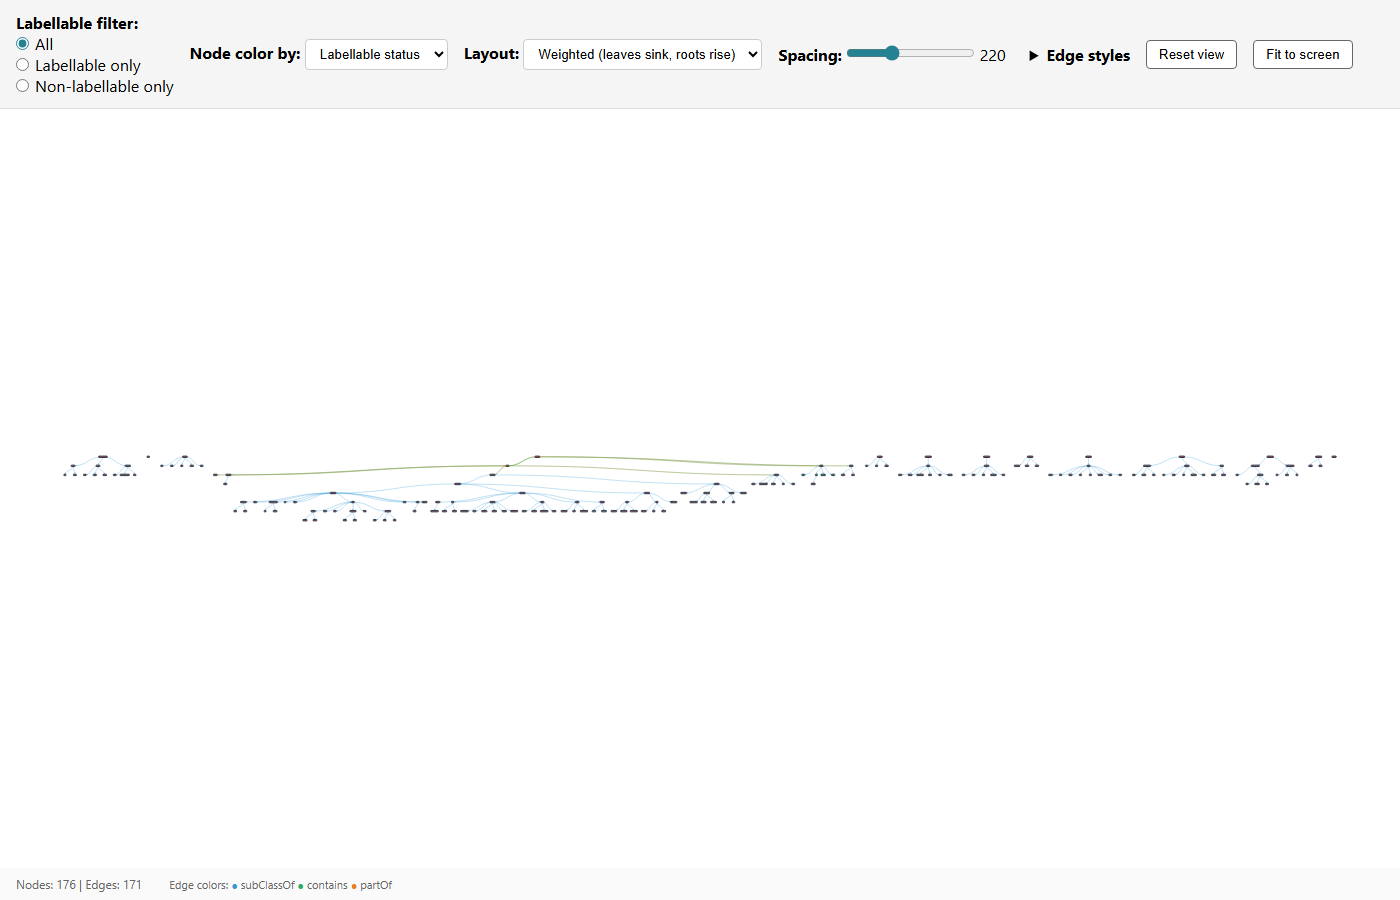
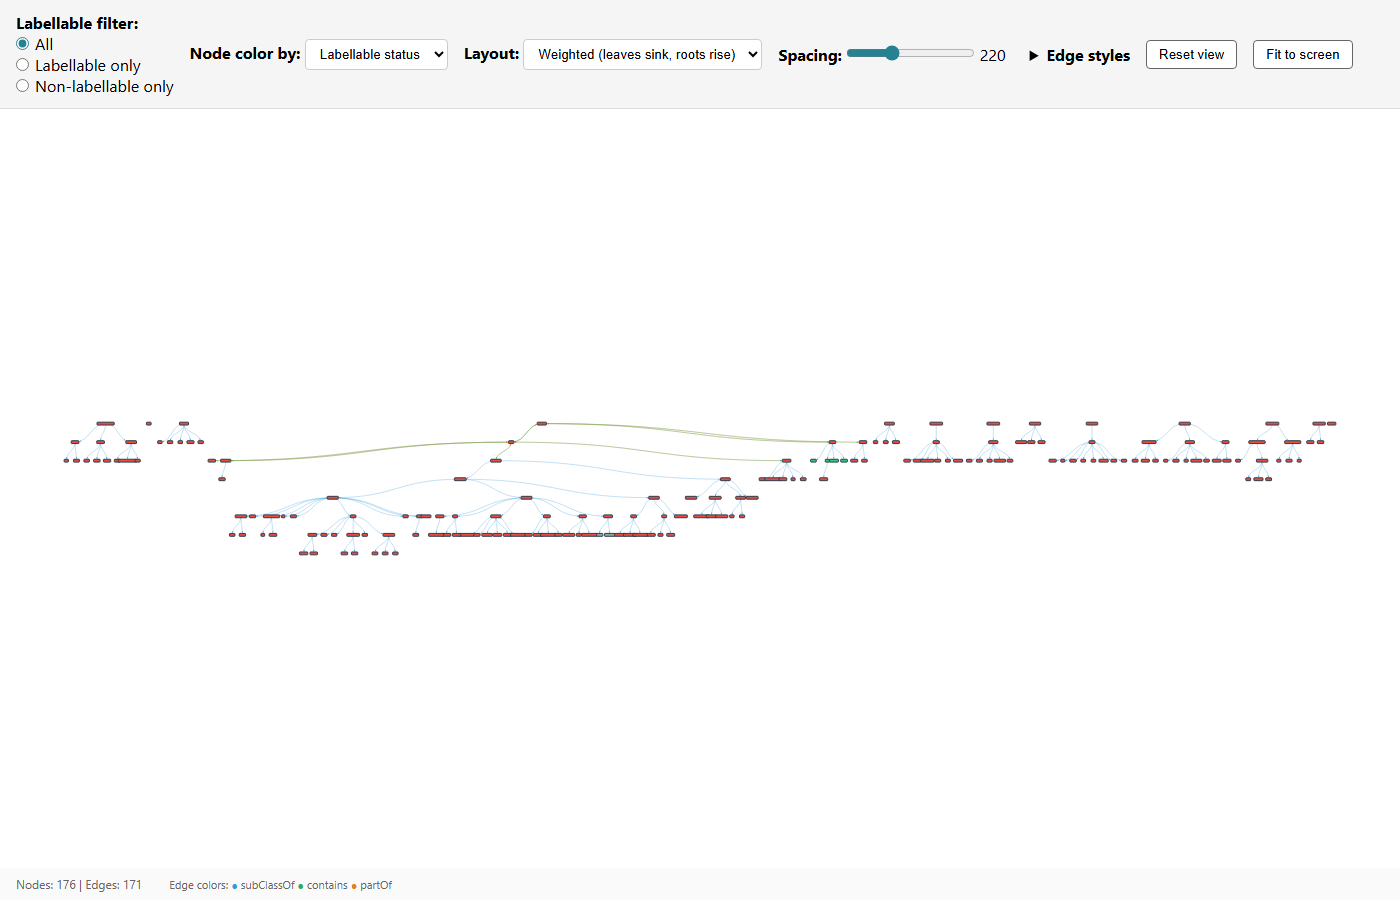
visualizer: best state so far

Changed region(s): [[0.0307, 0.4667, 0.9521, 0.6222]]

diff --git a/Visualizer/visualizer.html b/Visualizer/visualizer.html
@@ -181,8 +181,8 @@
             const unreached = [...nodeIds].filter(id => depth[id] === undefined);
             unreached.forEach(id => { depth[id] = 0; roots.push(id); });
 
-            const childGap = spacing * 0.4;
-            const leafWidth = spacing * 0.7;
+            const childGap = spacing * 0.15;
+            const leafWidth = spacing * 0.4;
             const subtreeWidth = (id) => {
                 const ch = (children[id] || []).filter(c => nodeIds.has(c));
                 if (ch.length === 0) return leafWidth;
@@ -211,7 +211,7 @@
             let xOffset = 0;
             roots.forEach(root => {
                 const r = layoutSubtree(root, xOffset, 0);
-                xOffset = r.left + r.width + spacing * 0.8;
+                xOffset = r.left + r.width + spacing * 0.2;
             });
 
             return positions;

diff --git a/Visualizer/convert_to_html_view.py b/Visualizer/convert_to_html_view.py
@@ -297,8 +297,8 @@ def generate_html(nodes: list[dict], edges: list[dict]) -> str:
             const unreached = [...nodeIds].filter(id => depth[id] === undefined);
             unreached.forEach(id => {{ depth[id] = 0; roots.push(id); }});
 
-            const childGap = spacing * 0.4;
-            const leafWidth = spacing * 0.7;
+            const childGap = spacing * 0.15;
+            const leafWidth = spacing * 0.4;
             const subtreeWidth = (id) => {{
                 const ch = (children[id] || []).filter(c => nodeIds.has(c));
                 if (ch.length === 0) return leafWidth;
@@ -327,7 +327,7 @@ def generate_html(nodes: list[dict], edges: list[dict]) -> str:
             let xOffset = 0;
             roots.forEach(root => {{
                 const r = layoutSubtree(root, xOffset, 0);
-                xOffset = r.left + r.width + spacing * 0.8;
+                xOffset = r.left + r.width + spacing * 0.2;
             }});
 
             return positions;
